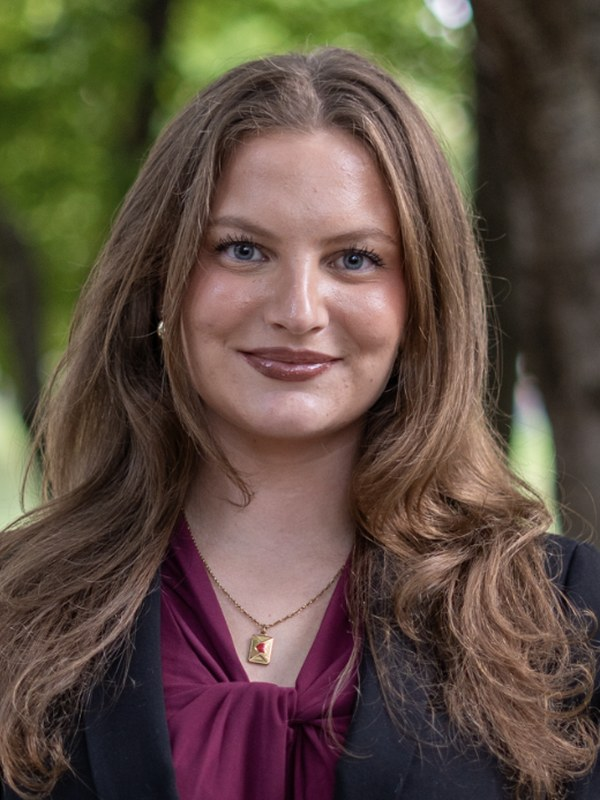
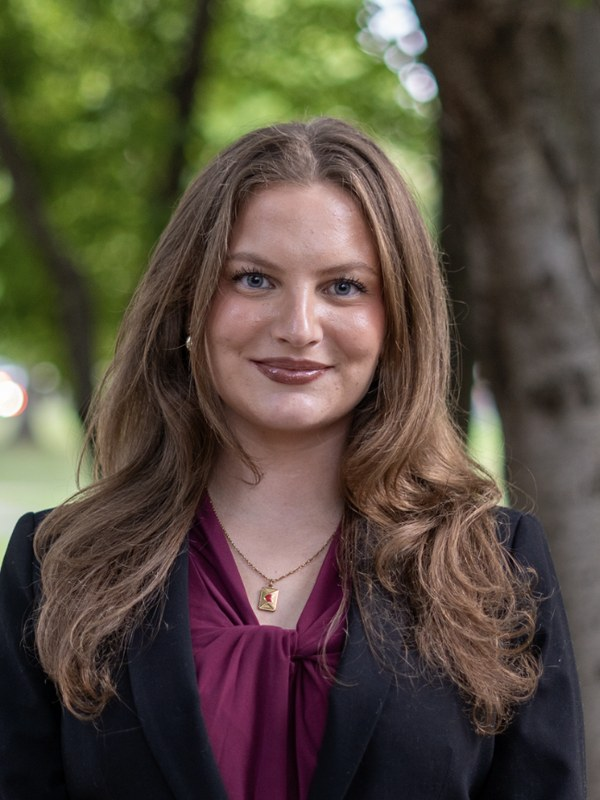
content: zoom out Alison's directory headshot

diff --git a/public/sw.js b/public/sw.js
@@ -13,7 +13,7 @@
  *
  * Bump CACHE_VERSION on any release to force old caches out.
  */
-const CACHE_VERSION = "akpsi-v43";
+const CACHE_VERSION = "akpsi-v44";
 const PRECACHE = [
   "/",
   "/offline/",
